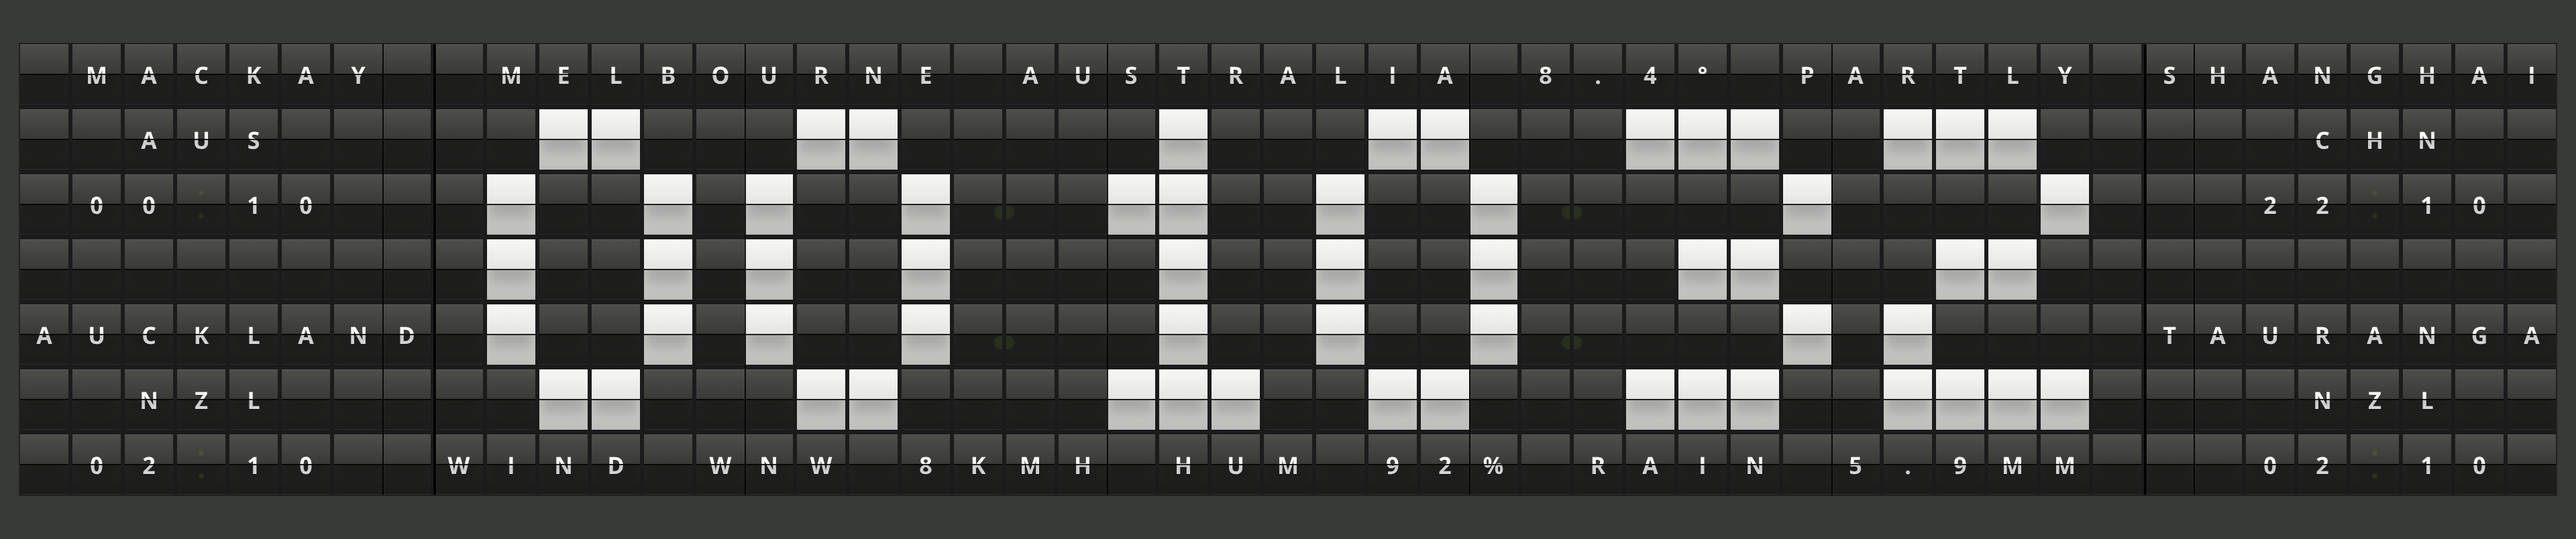
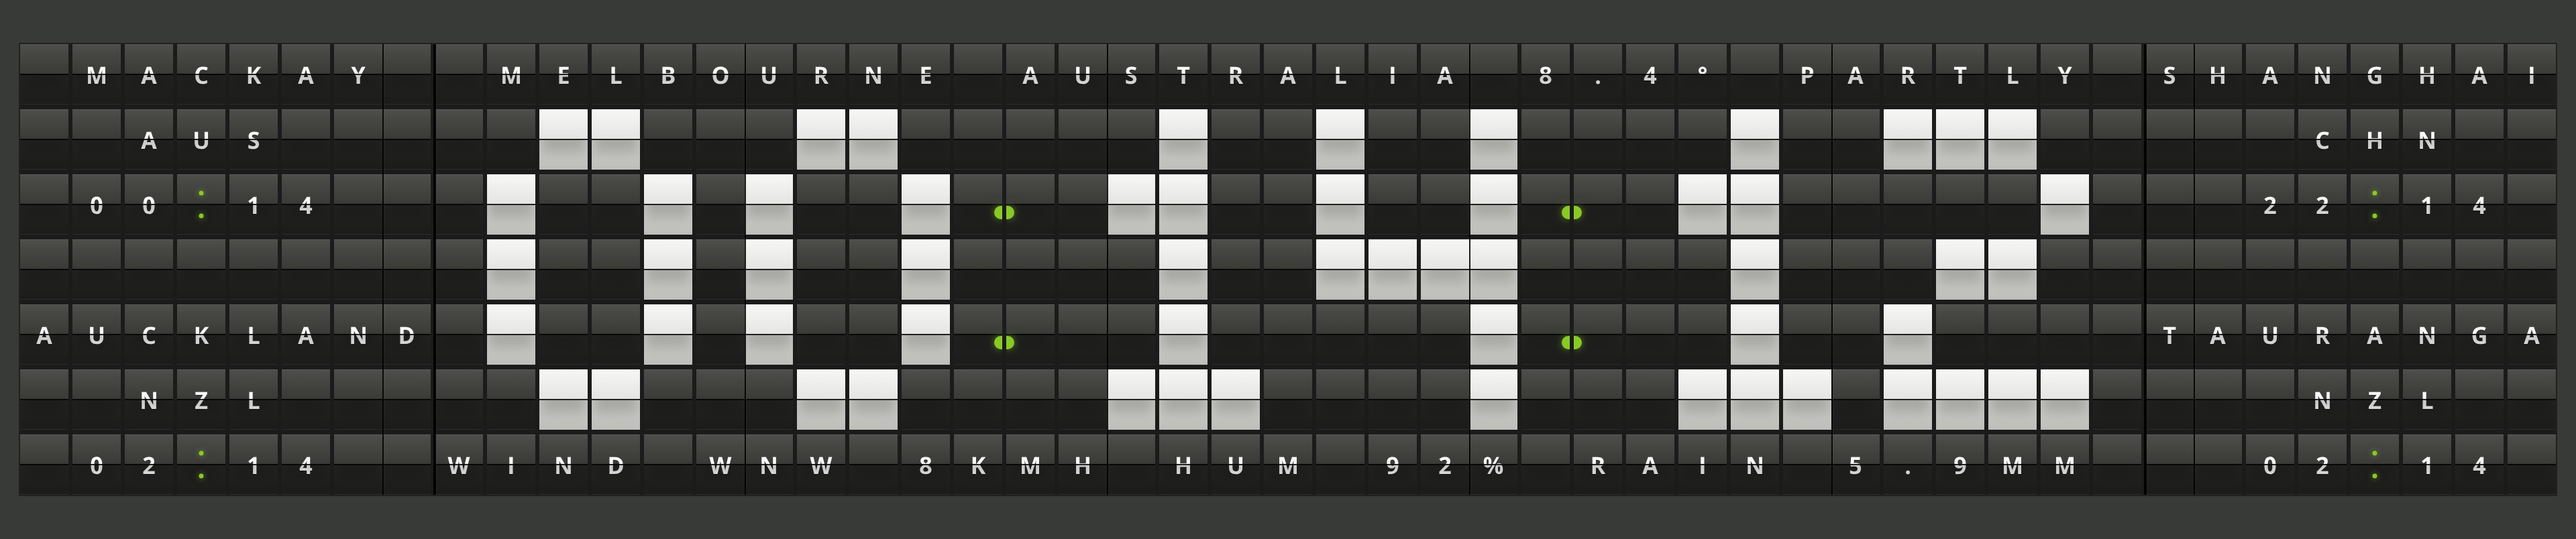
Use Open Sans Bold on all small flaps and preserve original 4x5 clock [skip ci]

diff --git a/README.md b/README.md
@@ -37,3 +37,11 @@ Fork-style derivative of `creative-innovation-labs-bmc/aurecon-split-flap-wall`.
 - The upper half of each text glyph is lifted 2 px for hinge legibility.
 - The large Melbourne HH:MM:SS remains the original pre-fork 4 × 5 illuminated-flap matrix.
 - Open Sans and its OFL licence are stored locally under `fonts/`.
+
+## Typography
+
+- All smaller text flaps use self-hosted Open Sans Bold at 34 px.
+- This includes office names, country codes, office times, Melbourne header and weather footer.
+- The upper half of each text glyph is lifted 2 px for hinge legibility.
+- The large Melbourne HH:MM:SS remains the original pre-fork 4 × 5 illuminated-flap matrix.
+- Open Sans and its OFL licence are stored locally under `fonts/`.
